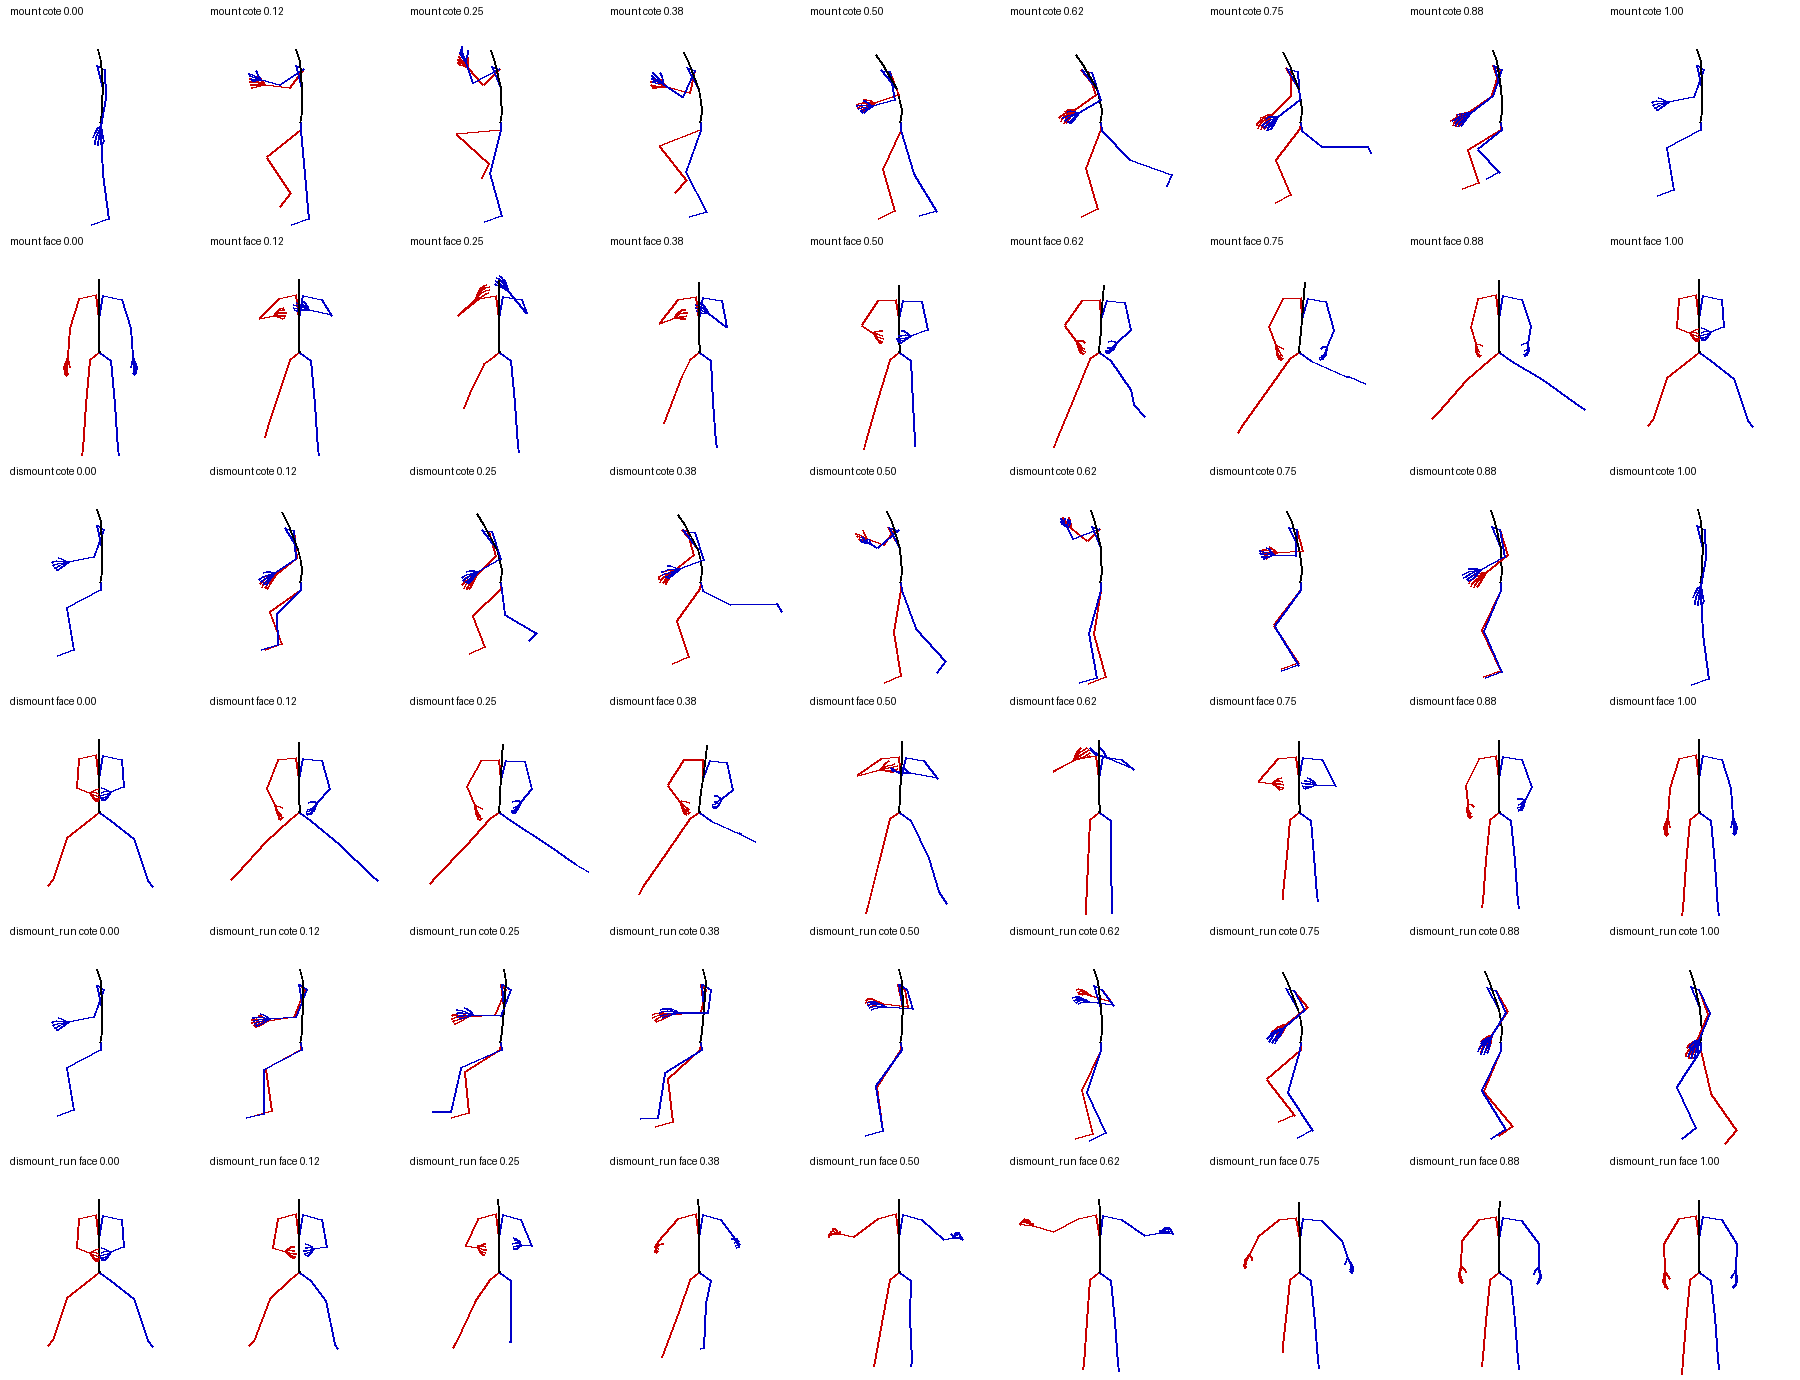
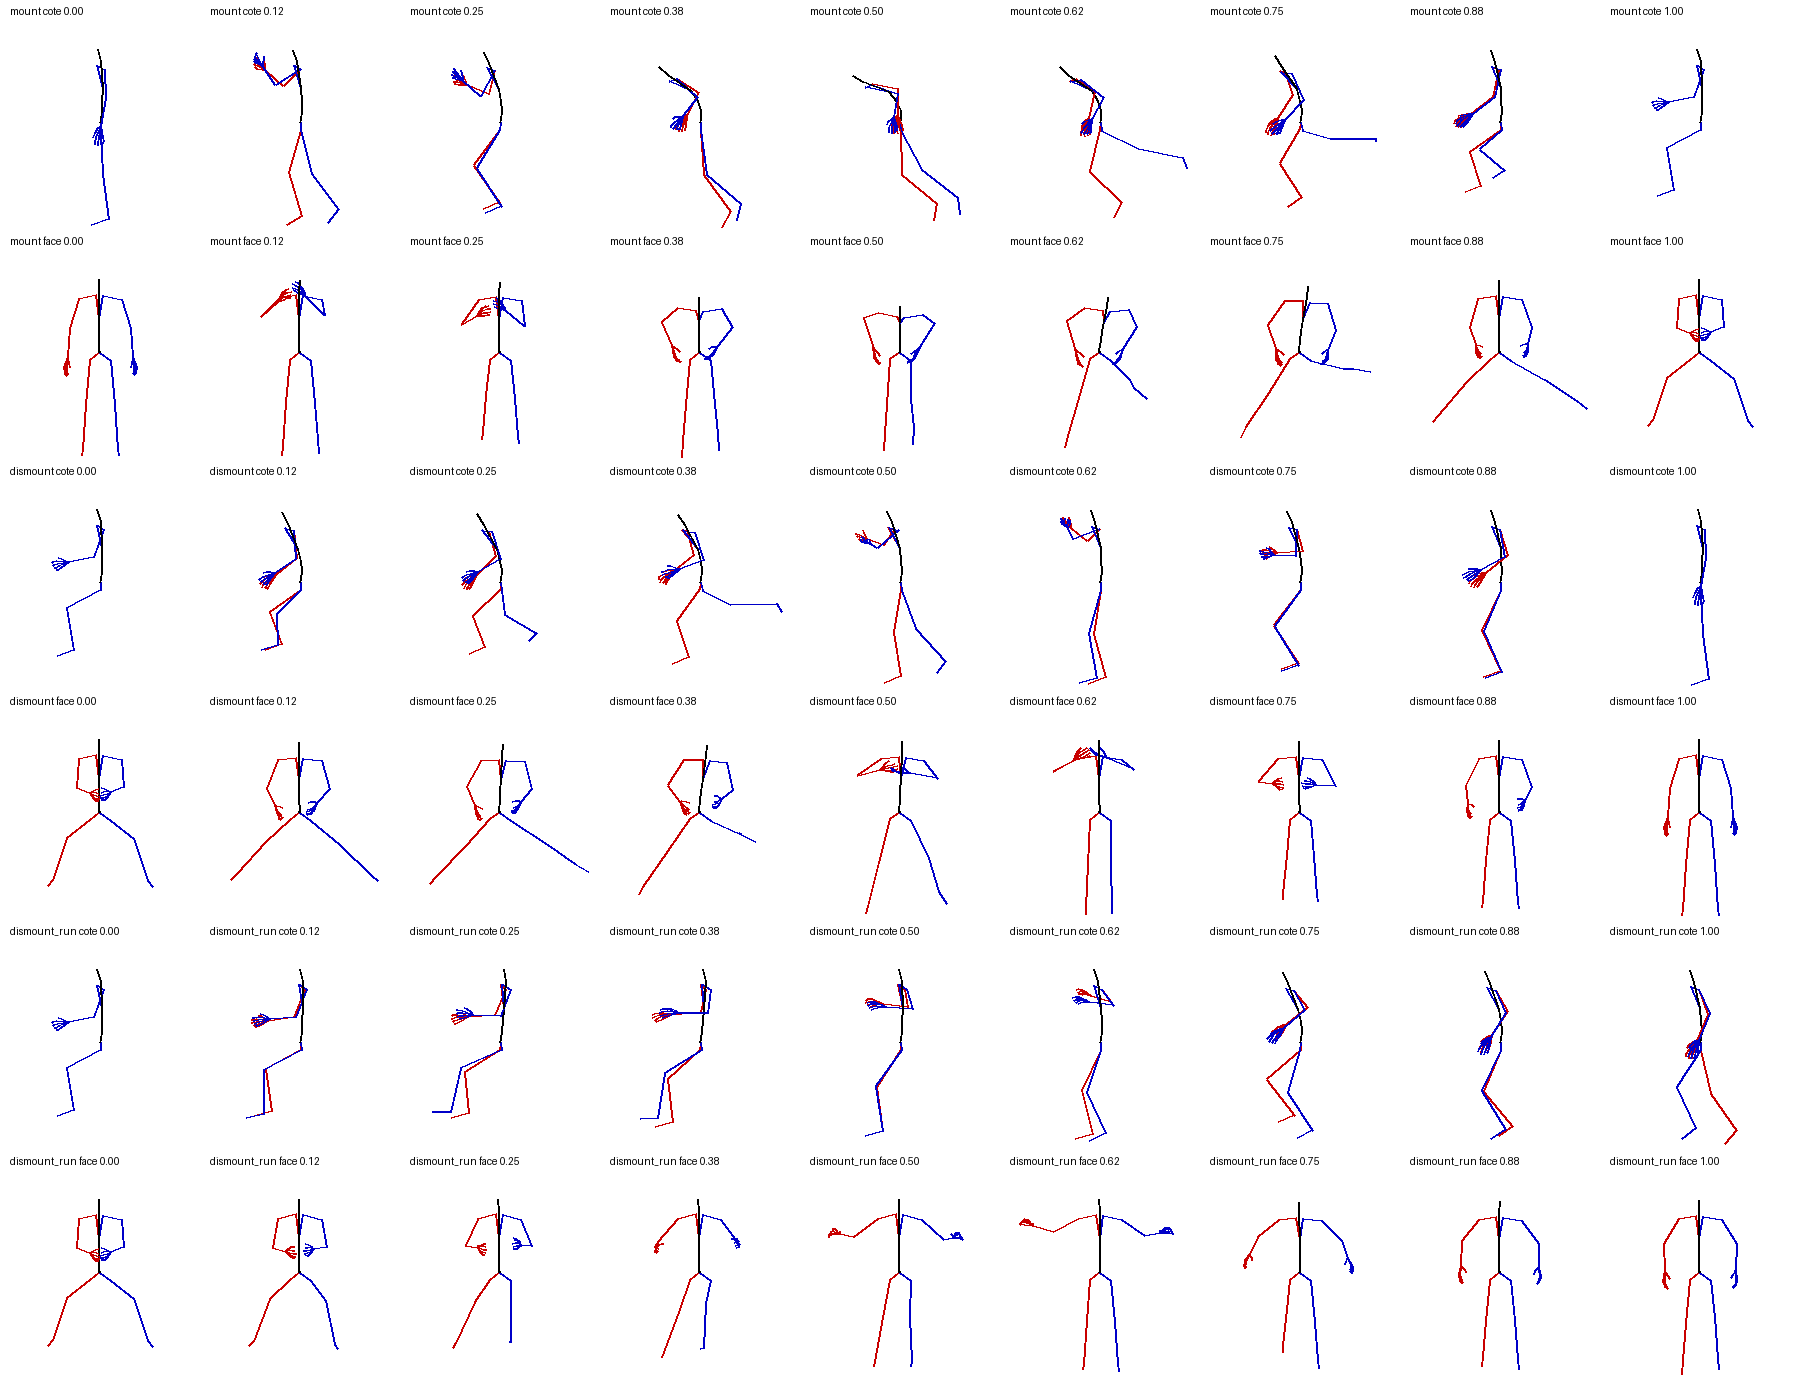
edo_horses 1.7.1 : montee facon RDR2 (cheval qui avance, a plat ventre sur la selle, jambe lancee par-dessus), dict edo_monte2
Claude-Session: https://claude.ai/code/session_011jSh7PHPKoso6Ww63oMJ3w

diff --git a/5_outils_claude/monter_descendre/monte.py b/5_outils_claude/monter_descendre/monte.py
@@ -54,18 +54,22 @@ def P(**kw):
     return d
 CLIPS={
  # MONTER : debout face au flanc, pied gauche a l'etrier, main sur le pommeau, impulsion, jambe droite par-dessus la croupe, on se pose
- 'mount': (1.75, [
+ # MONTER facon RDR2 (le cheval avance) : on marche a cote, on agrippe la selle, saut a plat ventre en travers
+ # de la selle, jambes qui pendent, puis la jambe droite part tres haut par-dessus la croupe et on s'assoit
+ 'mount': (1.90, [
    (0.00, P()),
-   (0.16, P(lean=6, head=10, arm_near=(0.02,0.30,0.05), arm_far=(-0.12,0.32,0.12),
-            near=dict(flex=72,knee=108,abd=18,ankle=-10))),
-   (0.34, P(lean=16, head=14, pel=-6, arm_near=(0.02,0.30,-0.02), arm_far=(-0.12,0.30,0.02),
-            near=dict(flex=80,knee=118,abd=18), far=dict(flex=28,knee=48,ankle=20))),
-   (0.52, P(lean=30, head=20, arm_near=(0.04,0.26,-0.20), arm_far=(-0.10,0.28,-0.22),
-            near=dict(flex=22,knee=30,abd=12), far=dict(flex=-18,knee=12,ankle=30))),
-   (0.70, P(lean=26, twist=-18, head=24, roll=-6, arm_near=(0.06,0.30,-0.30), arm_far=(-0.04,0.30,-0.30),
-            near=dict(flex=30,knee=45,abd=25), far=dict(flex=-30,knee=55,abd=62,rot=10))),
-   (0.86, P(lean=10, twist=-6, head=10, arm_near=(0.06,0.34,-0.36), arm_far=(0.06,0.34,-0.36),
-            near=dict(flex=48,knee=58,abd=40), far=dict(flex=28,knee=60,abd=55))),
+   (0.12, P(lean=8, head=-10, arm_near=(0.00,0.32,0.02), arm_far=(-0.14,0.34,0.06),
+            near=dict(flex=18,knee=30), far=dict(flex=-12,knee=20))),
+   (0.24, P(lean=18, pel=-6, head=-6, arm_near=(0.00,0.28,-0.04), arm_far=(-0.14,0.30,0.00),
+            near=dict(flex=40,knee=70,ankle=25), far=dict(flex=34,knee=62,ankle=22))),
+   (0.40, P(lean=62, head=-25, nod=-10, arm_near=(0.06,0.20,-0.30), arm_far=(-0.04,0.22,-0.28),
+            near=dict(flex=-8,knee=24,ankle=-20), far=dict(flex=-14,knee=34,ankle=-20))),
+   (0.54, P(lean=66, head=-28, nod=-10, roll=-4, arm_near=(0.06,0.20,-0.32), arm_far=(-0.02,0.22,-0.30),
+            near=dict(flex=10,knee=60,ankle=-10), far=dict(flex=-30,knee=20,ankle=-25))),
+   (0.70, P(lean=44, twist=-22, head=-10, roll=-8, arm_near=(0.06,0.26,-0.32), arm_far=(-0.02,0.26,-0.30),
+            near=dict(flex=20,knee=50,abd=20), far=dict(flex=-48,knee=26,abd=78,rot=12))),
+   (0.85, P(lean=14, twist=-6, head=0, arm_near=(0.06,0.32,-0.36), arm_far=(0.06,0.32,-0.36),
+            near=dict(flex=44,knee=56,abd=38), far=dict(flex=22,knee=58,abd=58))),
    (1.00, 'RIDE')]),
  # DESCENDRE (arret) : on se penche, jambe droite par-dessus la croupe, on glisse le long du flanc, reception souple
  'dismount': (1.45, [
